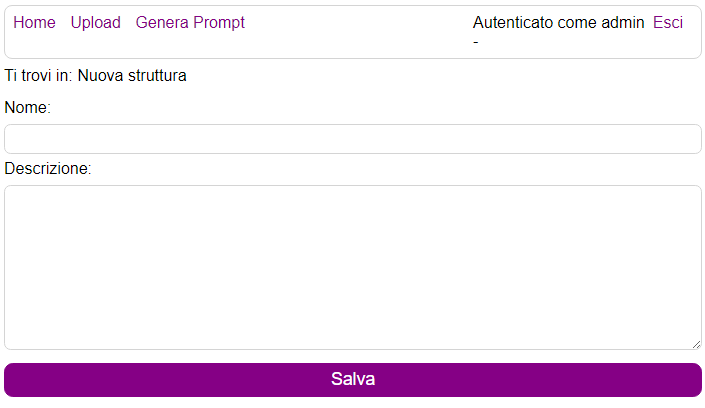
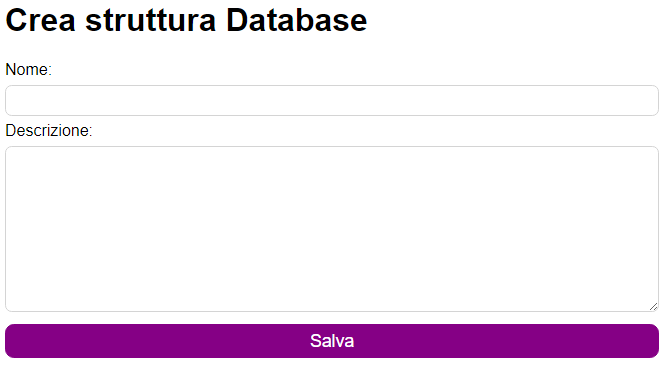
Aggiunta sezione 3.1.1 e sistemate immagini - v0.0.11

diff --git a/docs/src/esterni/manuale_utente-V0.0.8.tex b/docs/src/esterni/manuale_utente-V0.0.8.tex
@@ -13,6 +13,7 @@
 \usepackage[table]{xcolor}
 \usepackage{tabularray}
 \usepackage{pgfplots}
+\usepackage[justification=centering]{caption}
 
 
 \usepackage{hyperref}
@@ -39,6 +40,18 @@
 \author{Jackpot Coding}
 \renewcommand*\contentsname{Indice}
 \date{\today}
+
+\newlength\myheight
+\newlength\mydepth
+\settototalheight\myheight{Xygp}
+\settodepth\mydepth{Xygp}
+\setlength\fboxsep{0pt}
+\newcommand*\inlinegraphics[1]{%
+	\settototalheight\myheight{Xygp}%
+	\settodepth\mydepth{Xygp}%
+	\raisebox{-\mydepth}{\includegraphics[height=\myheight]{#1}}%
+}
+
 
 %STARTOF THE DOCUMENT
 \begin{document}
@@ -109,7 +122,7 @@
 	\begin{flushright}
 		\begin{spacing}{1}
 			USO: ESTERNO\\
-			VERSIONE: 0.0.10\\
+			VERSIONE: 0.0.11\\
 		\end{spacing}
 	\end{flushright}
 	
@@ -128,6 +141,7 @@
 			\hline
 			\rowcolor{teal!50}
 			\textbf{versione} & \textbf{data} & \textbf{autore} & \textbf{verifica} & \textbf{modifica} \\ \hline
+			v.0.0.11 & 09/05/2024 & R. Simionato & - & Aggiunta sezione 3.1.1 e sistemate immagini \\ \hline
 			v.0.0.10 & 07/05/2024 & R. Simionato & - & Aggiunte immagini nella sezione 4 \\ \hline
 			v.0.0.9 & 05/05/2024 & R. Simionato & - & Prima stesura sezione 4 \\ \hline
 			v.0.0.8 & 02/05/2024 & M. Favaretto & - & Aggiunte e correzioni varie nella sezione di Requisiti \\ \hline
@@ -147,8 +161,8 @@
 	
 	\pagebreak
 	\tableofcontents
+	\listoffigures
 	\pagebreak
-	
 	
 	
 	\section{Introduzione}
@@ -215,7 +229,7 @@
 						transformers & 4.40 & \href{https://pypi.org/project/transformers/}{Download Transformers} \\ \hline
 						markdown & 3.6 & \href{https://pypi.org/project/markdown/}{Download Markdown} \\ \hline
 						openai & 1.25 & \href{https://pypi.org/project/openai/}{Download OpenAI} \\ \hline
-						llmstudio & 0.2 & \href{https://lmstudio.ai/}{Download LLMStudio} \\ \hline
+						llmstudio & 0.2 & \href{https://lmstudio.ai/}{Download LM Studio} \\ \hline
 						Browser & 124 o superiori & Verranno mostrati in dettaglio nella \hyperref[tab:browsers]{tabella successiva} \\ \hline
 					\end{tabular}
 				}
@@ -253,7 +267,32 @@
 		\subsection{Installazione componenti \textit{Software}}
 			Prima di procedere all'installazione dell'applicazione in sé, è necessario verificare che tutte i requisiti siano rispettati.
 			A tal fine, si rimanda alla lettura della sezione \hyperref[sec:requisiti]{requisiti}
-
+			
+			% TODO - Installazione e setup LM STUDIO
+			\subsubsection{Setup di LM Studio}
+			Per utilizzare la funzionalità di generare la query SQL all'interno del programma ChatSQL è necessario l'utilizzo di LM Studio che ci permette di eseguire modelli LLM in locale.\\
+			Una volta installato e avviato LM Studio utilizzare la barra di ricerca nella home per cercare il seguente modello
+			\begin{center}
+				\textit{lmstudio-community/Meta-Llama-3-8B-Instruct-GGUF}
+			\end{center}
+			si aprirà la seguente schermata dalla quale è possibile scaricare il modello nella sezione di destra.
+			% TODO - Immagine search LMSTUDIO
+			\begin{figure}[ht]
+				\centering
+				\fbox{\includegraphics[width = 0.8\textwidth]{User_Manual/lmstudio_search.png}}
+				\caption{Ricerca e download del modello in LM Studio}
+			\end{figure}
+			Una volta terminato il download del modello LLM spostarsi nella sezione 'Local Server' cliccando sull'icona \inlinegraphics{User_Manual/local_server_icon.png} presente nella barra a sinistra dell'applicazione.
+			Da qui selezionare il modello appena scaricato dal menù a tendina presente in alto e attendere il caricamento. Una volta terminato assicurarsi che l'impostazione "Server Port" che si trova all'interno della sezione "Configuration" abbia valore 1234 e cliccare il bottone verde "Start Server" se illuminato.
+			% TODO - Immagine server LMSTUDIO
+			\begin{figure}[ht]
+				\centering
+				\fbox{\includegraphics[width = 0.8\textwidth]{User_Manual/local_server_setup.png}}
+				\caption{Setup del server di LM Studio}
+			\end{figure}
+			
+			
+		\newpage
         \subsection{Clonazione Repo}
 			Per poter avere una copia dell'applicazione in locale, vi sono due modi:
 			\begin{enumerate}
@@ -316,20 +355,28 @@
 	    Questa è la schermata principale dell'applicazione. Da qui è possibile richiedere la creazione di un prompt e poi in seguito della query SQL, oppure effettuare l'accesso con un profilo amministratore tramite il link "Accedi" in alto a sinistra.
 	    
 	    \subsubsection{Richiedere un prompt e ottenere la query SQL}
-	    Per richiedere la generazione di un prompt è necessario inserire la propria richiesta all'interno della casella di testo apposita, successivamente bisognerà selezionare tramite il menù a tendina il database relativo alla richiesta e cliccare su "Genera Prompt".
-	    \begin{figure}[ht]
-	    	\centering
-	    	\fbox{\includegraphics[width = 0.5\textwidth]{User_Manual/prompt_result.png}}
-	    	\caption{Esempio di prompt generato}
-	    \end{figure}\\
+	    Per richiedere la generazione di un prompt è necessario inserire la propria richiesta all'interno della casella di testo apposita, successivamente bisognerà selezionare tramite il menù a tendina il database relativo alla richiesta e cliccare su "Genera Prompt".\\
 	    Una volta generato il prompt verranno fornite due opzioni per proseguire:
 	    \begin{itemize}
 	    	\item Copiare il prompt generato tramite l'apposito bottone per poterlo facilmente incollare all'interno di un LLM a scelta
-	    	\item Generare la query SQL utilizzando l'LLM presente nel programma % TODO - Sistemare questa frase
+	    	\item Generare la query SQL utilizzando ChatSQL con LM Studio
 	    \end{itemize} 
+	    \begin{figure}
+	    	\centering
+	    	\begin{minipage}{0.49\textwidth}
+	    		\centering
+	    		\fbox{\includegraphics[width = 1\textwidth]{User_Manual/prompt_result.png}}
+	    		\caption{Esempio di prompt generato}
+	    	\end{minipage}\hfill
+	    	\begin{minipage}{0.49\textwidth}
+	    		\centering
+	    		\fbox{\includegraphics[width = 1\textwidth]{User_Manual/sql_result.png}}
+	    		\caption{Esempio di query SQL generata}
+	    	\end{minipage}
+	    \end{figure}
 	    
 	    \subsection{Area Ammnistrativa}
-	    Dopo aver effettuato il login verrà visualizzata la pagina iniziale dell'area amministrativa. Sarà possibile ritornare a questa pagina facilmente utilizzando il link "Home" posizionato in alto a sinistra. Affianco a questo si trova il link "Upload" che porta alla schermata dov'è possibile caricare una strutturaDB da un file.
+	    Dopo aver effettuato il login verrà visualizzata la pagina iniziale dell'area amministrativa. Sarà possibile ritornare a questa pagina facilmente utilizzando il link "Home" posizionato in alto a sinistra. Affianco a questo si trova il link "Upload" che porta alla schermata dov'è possibile caricare una StrutturaDB da un file.
 	    \begin{figure}[ht]
 	    	\centering
 	    	\fbox{\includegraphics[width = 0.5\textwidth]{User_Manual/admin_home.png}}
@@ -337,39 +384,39 @@
 	    \end{figure}
 	    
 	    \subsubsection{Lista StruttureDB}
-	    Sempre nella pagina iniziale dell'area amministrativa troviamo la lista delle struttureDB presenti nel programma. È possibile visualizzare le strutture presenti tramite l'apposito bottone "Visualizza" oppure creare una nuova struttura database cliccando sul bottone "Crea Struttura DB". 
+	    Sempre nella pagina iniziale dell'area amministrativa troviamo la lista delle StruttureDB presenti nel programma. È possibile visualizzare le strutture presenti tramite l'apposito bottone "Visualizza" oppure creare una nuova struttura database cliccando sul bottone "Crea Struttura DB". 
 	    
 	    \subsubsection{Upload StrutturaDB}
 	    All'interno della pagina per caricare un file contenete una struttura DB si trova il bottone "Scegli file", una volta cliccato verrà aperta una finestra di dialogo che permetterà all'amministratore di selezionare il file. Selezionare il file in formato .json desiderato e cliccare su "Apri", il nome del file selezionato verrà mostrato nella pagina e una volta controllato che sia il file corretto cliccare sul bottone "Carica" per terminare la procedura.
-	    \begin{figure}[ht]
+	    \begin{figure}[h]
 	    	\centering
 	    	\fbox{\includegraphics[width = 0.5\textwidth]{User_Manual/upload_form.png}}
-	    	\caption{Pagina per il caricamento delle struttureDB da file}
+	    	\caption{Pagina per il caricamento delle StruttureDB da file}
 	    \end{figure}
 	    
 	    \subsubsection{StrutturaDB, Tabella e Campo}
 	    Vengono raggruppate le pagine relative alla Struttura DB, alla Tabella e al Campo in quanto strutturate in maniera simile.\\
 	    Nella prima sezione della pagina è presente un form contenente i dettagli dell'elemento che stiamo visualizzando, dando quindi la possibilità di modificare e salvare le modifiche sull'elemento.\\
-	    Nella seconda sezione, presente solo per StrutturaDB e Tabella, troviamo la lista delle Tabelle contenute in una StrutturaDB e dei Camnpi contenuti in una Tabella nelle rispettive pagine. Da qui possiamo visualizzare gli elementi tramite il bottone "Visualizza" o creare un nuovo elemento con il bottone "Aggiungi".\\
+	    Nella seconda sezione, presente solo per StrutturaDB e Tabella, troviamo la lista delle Tabelle contenute in una StrutturaDB e dei Campi contenuti in una Tabella nelle rispettive pagine. Da qui possiamo visualizzare gli elementi tramite il bottone "Visualizza" o creare un nuovo elemento con il bottone "Aggiungi".\\
 	    Infine nell'ultima sezione troviamo il bottone per eliminare l'elemento che stiamo visualizzando al momento. Nel caso venisse cliccato verremo rimandati ad una pagina che richiede la conferma prima di procedere con l'eliminazione.
-	    % TODO - Inserire immagine pagina Struttura, Tabella e Campo
-	    \begin{figure}[h]
-	    	\centering
-	    	\fbox{\includegraphics[width = 0.5\textwidth]{User_Manual/structure_view.png}}
-	    	\caption{Pagina contenente i dettagli di una StrutturaDB}
-	    \end{figure}
 	    
-	    \newpage
 	    \subsubsection{Creazione nuova Struttura DB, Tabella o Campo}
 	    Vengono nuovamente raggruppate le pagine di creazione della Struttura DB, della Tabella e del Campo. Per ogni elemento viene richiesto di inserire il nome, la descrizione e di compilare gli altri campi necessari a definirlo. Una volta inseriti sarà possibile cliccare il bottone "Crea" per terminare la procedura di creazione.
-	    % TODO - Inserire immagine pagina di creazione
-	    \begin{figure}[ht]
+	    
+	    \begin{figure}[h]
 	    	\centering
-	    	\fbox{\includegraphics[width = 0.5\textwidth]{User_Manual/new_structure_form.png}}
-	    	\caption{Form per la creazione di una nuova strutturaDB}
+	    	\begin{minipage}{0.49\textwidth}
+	    		\centering
+	    		\fbox{\includegraphics[width = 1\textwidth]{User_Manual/structure_view.png}}
+	    		\caption{Pagina contenente i dettagli di una StrutturaDB}
+	    	\end{minipage}\hfill
+	    	\begin{minipage}{0.49\textwidth}
+	    		\centering
+	    		\fbox{\includegraphics[width = 1\textwidth]{User_Manual/new_structure_form.png}}
+	    		\caption{Form per la creazione di una nuova StrutturaDB}
+	    	\end{minipage}
 	    \end{figure}
 	    
-        
 	\section{Supporto Tecnico}
 		Nel caso di malfunzionamenti di qualsiasi genere il \textit{team} "\textit{Jackpot Coding}" si rende disponibile presso la seguente \textit{email}:
 		\begin{center}
@@ -381,7 +428,7 @@
 			\item \textbf{OGGETTO}: "nome dell'evento da segnalare"
 			\item \textbf{CORPO}:
 			\begin{itemize}
-				\item "Data del Problema"
+				\item "Data del problema"
 				\item "Descrizione problema"
 				\item "Browser e sistema operativo nei quali si è verificato il problema"
 			\end{itemize}
